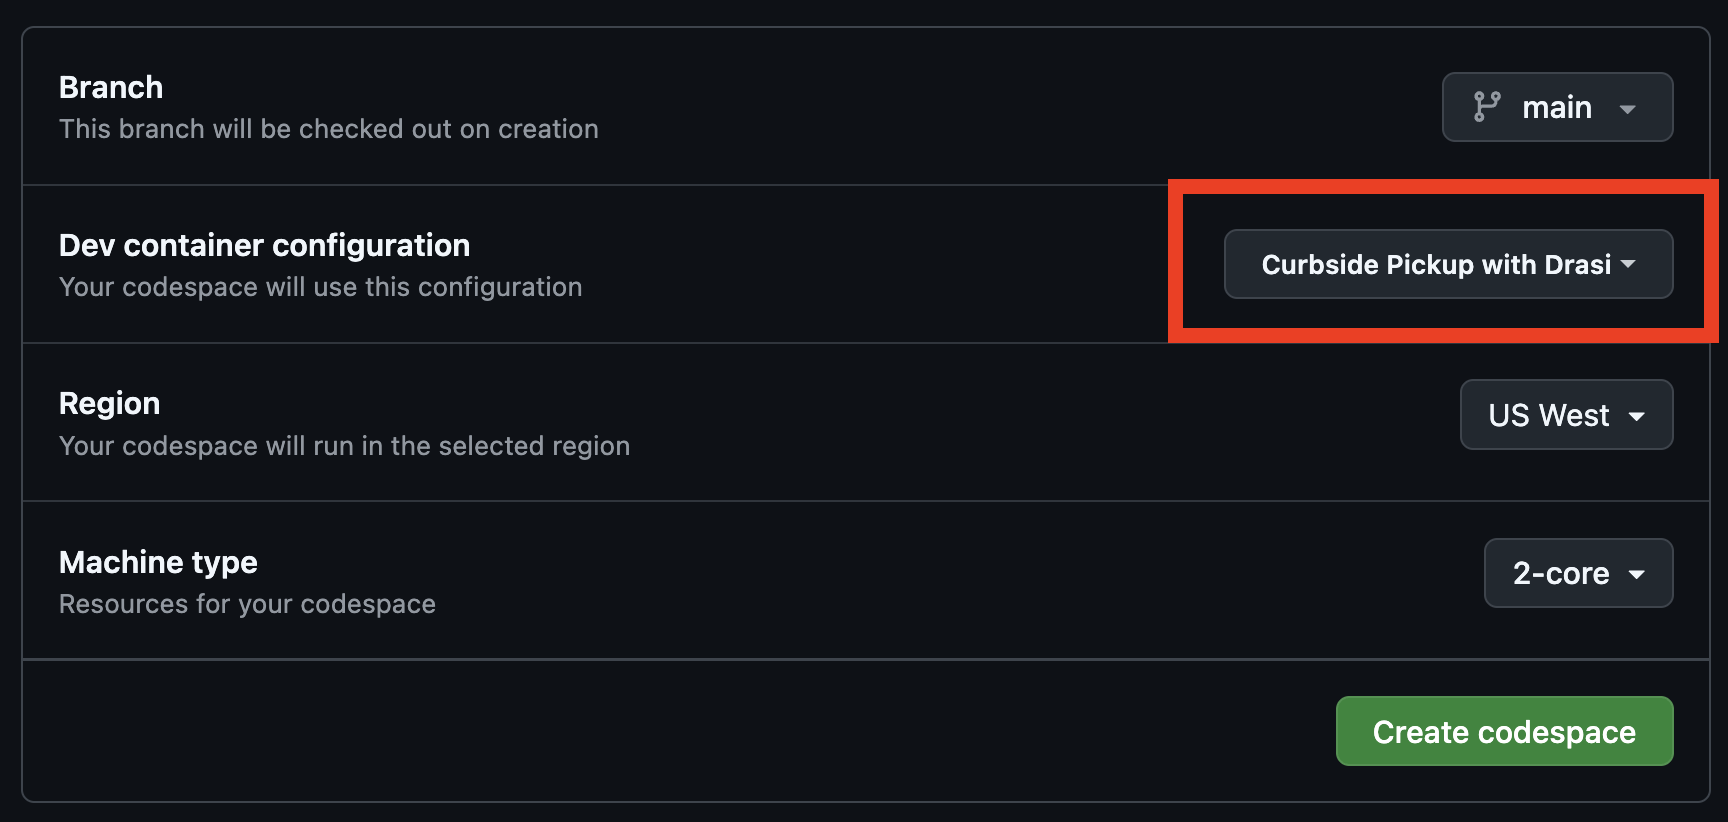
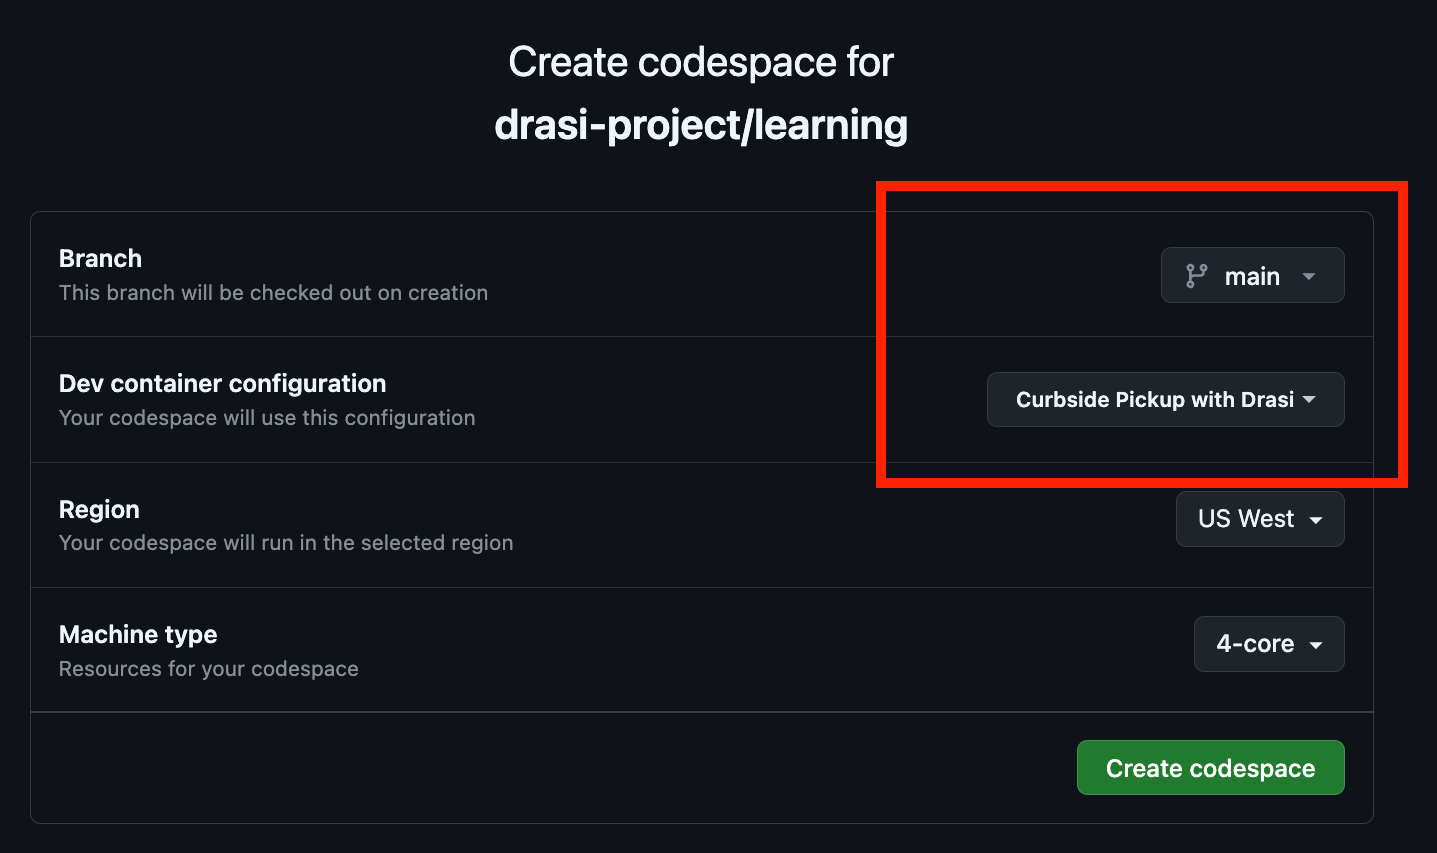
Fix typos and bugs in tutorial texts (#132)

diff --git a/docs/content/tutorials/building-comfort/_index.md b/docs/content/tutorials/building-comfort/_index.md
@@ -235,13 +235,13 @@ The easiest way to follow along with this tutorial is to launch a Github
   application within your browser without setting up anything on your own
   machines.
 
-[![Open in Github Codespaces](https://github.com/codespaces/badge.svg)](https://codespaces.new/drasi-project/learning?devcontainer_path=.devcontainer%2Ftutorial-building-comfort%2Fdevcontainer.json&machine=standardLinux32gb)
+[![Open in Github Codespaces](https://github.com/codespaces/badge.svg)](https://github.com/codespaces/new?hide_repo_select=true&ref=main&repo=778887889&skip_quickstart=true&machine=standardLinux32gb&devcontainer_path=.devcontainer%2Fbuilding-comfort%2Fdevcontainer.json)
 
 This will open a page with some configuration options. Make sure that the
   'Branch' selected is `main` and set the 'Dev Container configuration' to
   'Building Comfort with Drasi'.
 
-{{< figure src="Screenshot_BuildingComfort_CodespacesConfig.png"
+{{< figure src="Screenshot_CodespacesConfig.png"
   alt="GitHub Codespaces configuration page showing main branch and Building Comfort dev container selection" width="80%" >}}
 
 **Note:** The codespace will launch and run some setup scripts. Please wait for the scripts to complete. This should take less than 5 minutes to complete.
@@ -309,7 +309,18 @@ To adjust these settings in Docker Desktop:
 4. Adjust the sliders to meet or exceed the recommended values
 5. Click "Apply & Restart"
 
-**Step 1: Create k3d cluster**
+**Step 1: Clone the `learning` repo**
+
+[Clone the learning repo from Github](https://github.com/drasi-project/learning),
+  and navigate to the building comfort directory (`learning/tutorial/building-comfort`)
+
+```sh
+git clone https://github.com/drasi-project/learning
+cd learning/tutorial/building-comfort
+```
+<br/>
+
+**Step 2: Create k3d cluster**
 
 Use the commands below to create your own k3d cluster:
 
@@ -326,7 +337,7 @@ This creates a cluster with Traefik v2.x ingress controller included. The port m
 
 <br />
 
-**Step 2: Deploy apps, Setup Ingress & Initialize Drasi**
+**Step 3: Deploy apps, Setup Ingress & Initialize Drasi**
 
 To make things easy, we have provided a helper script. The script will:
 - Check for required tools (kubectl, Drasi CLI)
@@ -427,7 +438,7 @@ You should see a **disconnected** demo page like shown below.
 {{< figure src="Codespaces_04_BlankDashboard.png"
   alt="Demo portal showing disconnected dashboard before SignalR setup" width="100%" >}}
 
-**Note:** This page shows **Disconnected** because the dashboard frontend has no websocket backend yet.
+**Note:** This page shows **Disconnected** on the top right corner because the dashboard frontend has no websocket backend yet.
 We will use Drasi to deploy a SignalR server which will work as our websocket backend.
 
 🚀 If you're able to see this, your environment is setup correctly and you can proceed.
@@ -463,6 +474,9 @@ You should see a disconnected demo page like shown below.
 {{< figure src="Devcontainer_06_BlankDashboard.png"
   alt="Demo portal showing disconnected dashboard before SignalR setup" width="100%" >}}
 
+**Note:** This page shows **Disconnected** on the top right corner because the dashboard frontend has no websocket backend yet.
+We will use Drasi to deploy a SignalR server which will work as our websocket backend.
+
 🚀 If you're able to see this, your environment is setup correctly and you can proceed.
 
 👍 The dashboard is still blank because our websocket server is not deployed
@@ -480,6 +494,9 @@ You should see a **disconnected** demo page like shown below.
 
 {{< figure src="Devcontainer_06_BlankDashboard.png"
   alt="Demo portal showing disconnected dashboard before SignalR setup" width="100%" >}}
+
+**Note:** This page shows **Disconnected** on the top right corner because the dashboard frontend has no websocket backend yet.
+We will use Drasi to deploy a SignalR server which will work as our websocket backend.
 
 🚀 If you're able to see this, your environment is setup correctly and you can proceed.
 
@@ -1100,17 +1117,16 @@ Or, you can delete the docker container from Docker Desktop.
 
 {{% tab header="Local Setup" text=true %}}
 
-To clean up the tutorial:
+To clean up the tutorial, you can run the following scripts at the path **`tutorial/building-comfort`:**
 
 **macOS/Linux:**
 ```sh
-cd tutorial/building-comfort
 ./scripts/cleanup-tutorial.sh
 ```
+<br/>
 
 **Windows (PowerShell):**
 ```powershell
-cd tutorial\building-comfort
 .\scripts\cleanup-tutorial.ps1
 ```
 <br />

diff --git a/docs/content/tutorials/curbside-pickup/_index.md b/docs/content/tutorials/curbside-pickup/_index.md
@@ -275,7 +275,7 @@ The easiest way to follow along with this tutorial is to launch a Github
   application within your browser without setting up anything on your own
   machines.
 
-[![Open in Github Codespaces](https://github.com/codespaces/badge.svg)](https://codespaces.new/drasi-project/learning?devcontainer_path=.devcontainer%2Ftutorial-curbside-pickup%2Fdevcontainer.json&machine=standardLinux32gb)
+[![Open in Github Codespaces](https://github.com/codespaces/badge.svg)](https://github.com/codespaces/new?hide_repo_select=true&ref=main&repo=778887889&skip_quickstart=true&machine=standardLinux32gb&devcontainer_path=.devcontainer%2Fcurbside-pickup%2Fdevcontainer.json)
 
 This will open a page with some configuration options. Make sure that the
   'Branch' selected is `main` and set the 'Dev Container configuration' to
@@ -354,7 +354,18 @@ To adjust these settings in Docker Desktop:
 4. Adjust the sliders to meet or exceed the recommended values
 5. Click "Apply & Restart"
 
-**Step 1: Create k3d cluster**
+**Step 1: Clone the `learning` repo**
+
+[Clone the learning repo from Github](https://github.com/drasi-project/learning),
+  and navigate to the curbside pickup directory (`learning/tutorial/curbside-pickup`)
+
+```sh
+git clone https://github.com/drasi-project/learning
+cd learning/tutorial/curbside-pickup
+```
+<br/>
+
+**Step 2: Create k3d cluster**
 
 The setup script requires a running Kubernetes cluster. Create one before proceeding:
 
@@ -368,7 +379,7 @@ kubectl cluster-info
 
 This creates a cluster with Traefik v2.x ingress controller included. The port mapping `8123:80` allows you to access applications at `http://localhost:8123`.
 
-**Step 2: Run the setup script**
+**Step 3: Run the setup script**
 
 Once your cluster is ready, run the interactive setup script for your platform:
 
@@ -420,7 +431,7 @@ The following applications are containerized and deployed on Kubernetes:
 
 3. **Delivery Dashboard** (`/delivery-dashboard`)
   - React app with SignalR integration
-  - Shows orders that are ready and the respective pickup driers have arrived
+  - Shows orders that are ready and the respective pickup drivers have arrived
 
 4. **Delay Dashboard** (`/delay-dashboard`)
   - Vue.js app with SignalR integration
@@ -812,11 +823,11 @@ In the query above, we only match those vehicles for which orders are not ready
   drasi.trueFor(v.location = 'Curbside', duration ({ seconds: 10 }))
 ```
 
-Here we utilize the temporal function `drasi.trueFor` which evaluates whether a
+Here we utilize the future function `drasi.trueFor` which evaluates whether a
   boolean expression remains true for at least a period of time, starting from
   the time when the change being evaluated occurred.
 
-Read more about `trueFor` and other [temporal functions here](http://localhost:1313/reference/query-language/#drasi-temporal-functions).
+Read more about `trueFor` and other [future functions here](../../reference/query-language/#drasi-future-functions).
 
 For our mock scenario, when we launch the apps some vehicles may already be
   at curbside at the beginning (epoch), and to filter those out we use this:
@@ -1170,18 +1181,16 @@ Or, you can delete the docker container from Docker Desktop.
 
 {{% tab header="Local Setup" text=true %}}
 
-To clean up the tutorial:
+To clean up the tutorial, you can run the following scripts at the path **`tutorial/curbside-pickup`:**
 
 **macOS/Linux:**
 ```sh
-cd tutorial/building-comfort
 ./scripts/cleanup-tutorial.sh
 ```
 <br/>
 
 **Windows (PowerShell):**
 ```powershell
-cd tutorial\building-comfort
 .\scripts\cleanup-tutorial.ps1
 ```
 <br />
@@ -1236,7 +1245,7 @@ The difference between the effort involved in getting the Delay Dashboard is
 {{< scrollable-code lang="sql" file="content/tutorials/curbside-pickup/DelayedOrders-Flink.sql" />}}
 
 If we contrast this with the simple YAML file used for the Drasi query, with
-  the much simpler Cypher query using temporal functions, the power and appeal
+  the much simpler Cypher query using future functions, the power and appeal
   of Drasi becomes unmistakably evident. The Cypher query is not just more
   concise but arguably easier to write, understand and maintain over time.
 

diff --git a/docs/content/getting-started/_index.md b/docs/content/getting-started/_index.md
@@ -63,15 +63,24 @@ Complete one of the options described below before continuing to [Step 2](#step-
 
 The Getting Started Tutorial codespace is hosted in the Drasi [learning](https://github.com/drasi-project/learning) repo. Click this button to create a codespace:
 
-[![Open in GitHub Codespaces](https://github.com/codespaces/badge.svg)](https://github.com/codespaces/new/drasi-project/learning?machine=standardLinux32gb&ref=main&devcontainer_path=.devcontainer%2Fdevcontainer.json)
+[![Open in GitHub Codespaces](https://github.com/codespaces/badge.svg)](https://github.com/codespaces/new?hide_repo_select=true&ref=main&repo=778887889&skip_quickstart=true&machine=standardLinux32gb&devcontainer_path=.devcontainer%2Fdevcontainer.json)
 
 When you see the **Create a new codespace** screen, click the **Create codespace** button; there is no need to change any of the default configuration settings.
 
-The codespace contains everything you need to complete this tutorial and will take a few minutes to complete the necessary startup and installation steps.
+{{< figure src="Codespaces_01_Configuration.png"
+  alt="Codespace configurations where defaults are fine" width="100%" >}}
 
-Once the codespace creation is complete, in the VS Code Explorer panel you will see two folders:
-- `.devcontainer` contains files used to configure the Codespace.
-- `resources` contains files you will use later in the tutorial to create the Drasi Sources, Continuous Queries, and Reactions
+The codespace contains everything you need to complete this tutorial and will take a few minutes to complete the necessary startup and installation steps.
+**Wait for the setup scripts to complete like shown here:
+{{< figure src="Codespaces_02_Loading.png"
+  alt="Codespace setup scripts running" width="100%" >}}
+
+Once the codespace creation is complete, it should look like this:
+{{< figure src="Codespaces_03_ReadyScreen.png"
+  alt="Codespace ready with welcome message and README file open" width="100%" >}}
+
+As shown in the screenshot above, in the VS Code Explorer panel you will see a folder called **`resources`**.
+This folder contains files you will use later in the tutorial to create the Drasi Sources, Continuous Queries, and Reactions.
 
 You can now proceed with the rest of the tutorial.
 
@@ -88,10 +97,6 @@ Once you have these prerequisites installed:
 2. Unzip the Drasi Getting Started Tutorial ZIP file to a suitable location on your computer
 3. Run VS Code and open the `tutorial/getting-started` folder from the Drasi Getting Started Tutorial files you just unzipped
 
-If you have opened the correct folder, in the VS Code Explorer panel you will see two folders:
-- `.devcontainer` contains files that VS Code requires to configure the Dev Container
-- `resources` contains files you will use later in the tutorial to create the Drasi Sources, Continuous Queries, and Reactions
-
 Run the Dev Container as follows:
 1. Open the Command Palette using `Ctrl + Shift + P` (Win/Linux) or `Cmd + Shift + P` (Mac)
 2. Type "dev containers:"
@@ -99,7 +104,15 @@ Run the Dev Container as follows:
 
 The Drasi Dev Container will take a few minutes to initialize depending on how many images it needs to download and the speed of your internet connection. The first time you run the Dev Container, it could take around 10 minutes because VS Code needs to download multiple images, install PostgreSQL, and install Drasi and its dependencies.
 
-When you see the ```Done. Press any key to close the terminal.``` message in the Dev Container terminal, it is ready to use and you can proceed with the rest of the tutorial.
+Once the setup process is complete, it should look like this:
+
+{{< figure src="Devcontainer_03_ReadyScreen.png"
+  alt="Codespace ready with welcome message and README file open" width="100%" >}}
+
+As shown in the screenshot above, in the VS Code Explorer panel you will see a folders called `resources`.
+This folder contains files you will use later in the tutorial to create the Drasi Sources, Continuous Queries, and Reactions.
+
+You can now proceed with the rest of the tutorial.
 
 ##### Recommended Docker Resources
 
